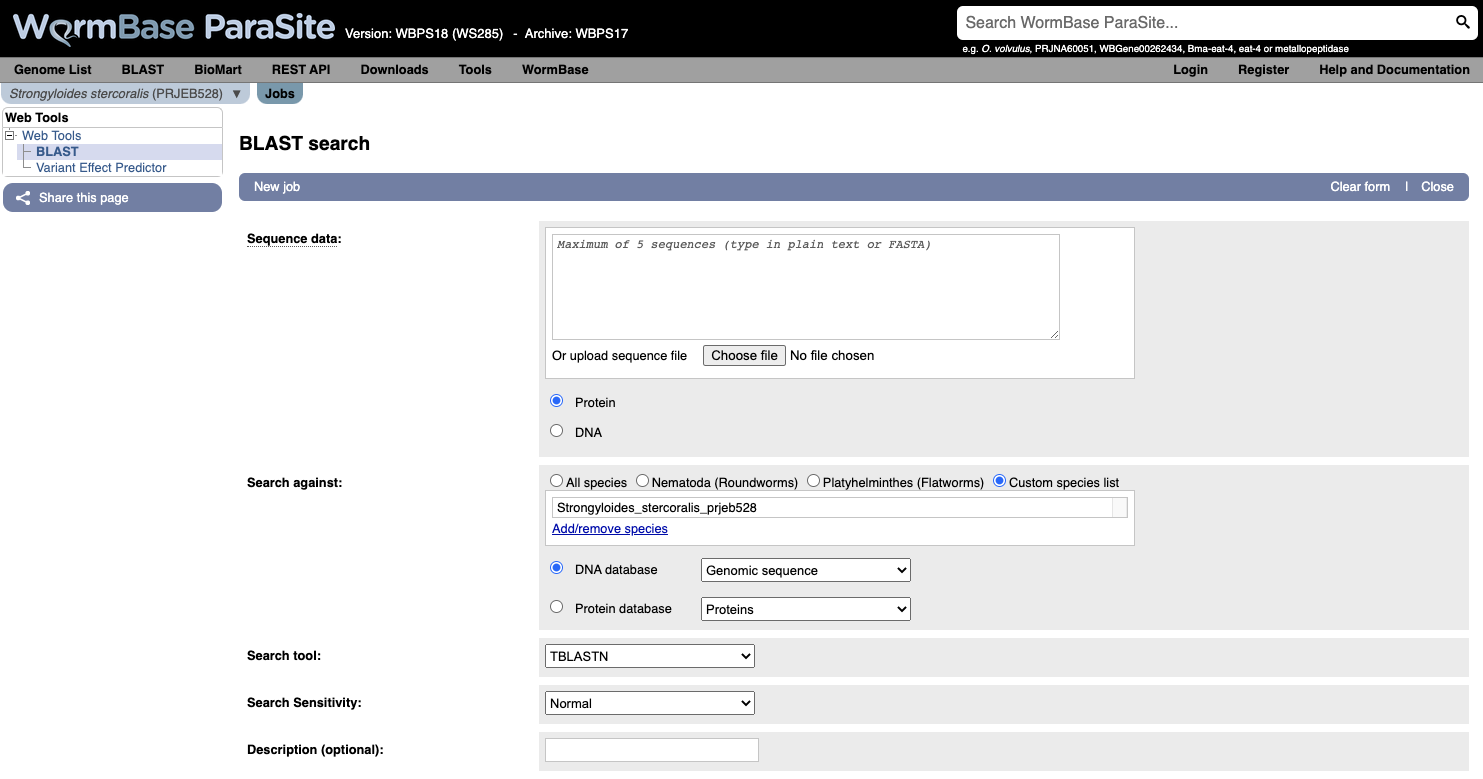
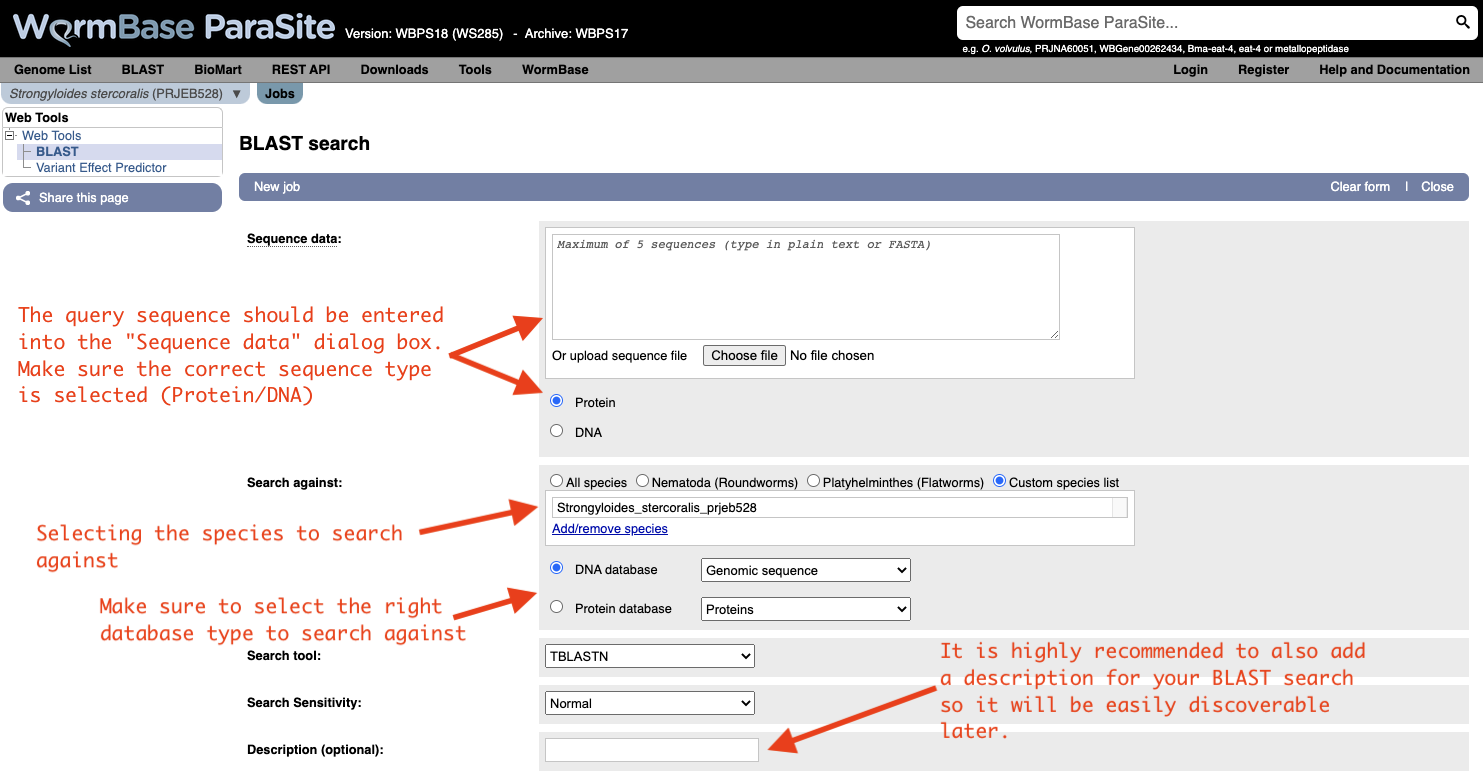
Last minute edits

diff --git a/manuals/module_3_WBP2/module_3_WBP2.md b/manuals/module_3_WBP2/module_3_WBP2.md
@@ -32,10 +32,11 @@ output:
 
 In this module, we return to WormBase ParaSite.
 
-We will start by looking at three commonly-used tools in WBPS:
+We will start by looking at commonly-used tools in WBPS:
 - BLAST
 - JBrowse (a genome browser)
 - Variant Effect Predictor (VEP)
+- Gene expression platform
 - g:Profiler
 
 We will then go on to apply some of the command line skills that you were introduced to in module 2 to explore WormBase ParaSite data programmatically.
@@ -63,19 +64,11 @@ BLAST uses three steps:
    - The extension step will continue until the overall score drops below a given value. At this point, the extension step is dropped and the alignment is recorded with its score.
    - The results are then presented as a list of alignments with associated scores. The alignments with the highest scores are most likely to be true matches or homologues of the query sequence.
 
-**Types of BLAST search**
-
-There are different flavours of the BLAST programme depending on whether the query is a nucleotide or a protein sequence and also depending on the nature (nucleotide or protein) of the database we are searching in.
-![](https://thebiologynotes.com/wp-content/uploads/2022/07/Basic-Local-Alignment-Search-Tool-BLAST.jpg) 
-- BLASTn: If the query is a nucleotide sequence and we are searching for matches in a nucleotide database, the program to use is BLASTn.
-- BLASTp: If the query is a protein sequence and we are looking for matches in a protein database, the programme to use is BLASTp. 
-- tBLASTn: If the query and the database are different, for example, if you want to query a protein sequence to find the best matches in a nucleotide database, BLAST can translate all the entries in the nucleotide database into protein sequences (each sequence can be translated into the 6 possible frames) You can then use the resulting "translated database" as the subject for the search. This flavour of BLAST is called tBLASTn.
-- BLASTx: In the reverse scenario, when a nucleotide sequence is the query and you want to search a protein database. The query is translated into the 6 possible frames and is then aligned to the query. This is called BLASTx.
 
 **When do we need to use BLAST?**
-- Discovering new genes or proteins: Imagine that you have sequenced a gene that is associated with drug resistance in a helminth. You know part of the DNA sequence, but you do not know which gene it belongs to. You can use WormBase ParaSite's BLAST to see if any genes correspond to your sequence!
-- Discovering variants of genes or proteins: Imagine you have identified a new protein of helminth which is similar but not identical to any of the  known proteins for this species. You might have found a new isoform of the encoding gene.
-- Identifying orthologs and paralogs: You can run BLAST using a protein/gene of a species to find its paralogues or its orthologues in other species.
+- **Discovering new genes or proteins**: Imagine that you have sequenced a gene that is associated with drug resistance in a helminth. You know part of the DNA sequence, but you do not know which gene it belongs to. You can use WormBase ParaSite's BLAST to see if any genes correspond to your sequence!
+- **Discovering variants of genes or proteins**: Imagine you have identified a new protein of helminth which is similar but not identical to any of the  known proteins for this species. You might have found a new isoform of the encoding gene.
+- **Identifying orthologs and paralogs**: You can run BLAST using a protein/gene of a species to find its paralogues or its orthologues in other species.
 
 **BLAST in WormBase ParaSite**
 
@@ -87,23 +80,13 @@ The BLAST tool is accessible:
 
 Both options will take you to WormBase ParaSite's BLAST tool page:
 ![](figures/BLAST_4.png)
-- The query sequence should be entered into the "Sequence data" dialog box. Make sure the correct sequence type is selected (Protein/DNA)
-- Selecting the species to search against. By selecting custom species list, a pop-up box will appear. Their you can search and select the genomes you would like to perform BLAST search against.
-- You can also use the round radio buttons if you would like to perform a search agaist all species, nematodes, platyhelmiths, or against a custom species list.
-- Make sure to select the right database type to search against (DNA/Protein database and their types)
-- The rest of the options include scoring filtering and specific alignment parameters. 
-- It is highly recommended to also add a description for your BLAST search so it will be easily discoverable later.
 
 **How to evaluate Blast results?**
    
 Metrics used in the results table:
 - **Score**: The bit score gives an indication of how good the alignment is; the higher the score, the better
-the alignment. In general terms, this score is calculated from a formula that takes into account
-the alignment of similar or identical residues, as well as any gaps introduced to align the
-sequences.
-- **E-value**: The E-value gives an indication of the statistical significance of a given pairwise alignment
-and reflects the size of the database and the scoring system used. The lower the E-value, the
-more significant the hit. A sequence alignment that has an E-value of 0.05 means that this
+the alignment.
+- **E-value**: The E-value gives an indication of the statistical significance of each alignment. A sequence alignment that has an E-value of 0.05 means that this
 similarity has a 5 in 100 (1 in 20) chance of occurring by chance alone.
 - **%ID or percent identity**: Percent identity is telling you how many residues in your query are an identical match to the hit. Closely related sequences will have a much higher % identity.
 
@@ -111,8 +94,6 @@ similarity has a 5 in 100 (1 in 20) chance of occurring by chance alone.
 
 ---
 ### BLAST exercise <a name="blast_exercise"></a>
-
-Use WormBase ParaSite BLAST to find out the identity of this sequence, and which species it belongs to. Does it have any close hits in other genomes? Try BLASTing against both cDNA and a genomic DNA databases. What kind of sequence is this?
 
 ```
 TTTGCAGATGCTTCTCCCTTCAAACTTGACGACGTCAACATTAATGACGTCATCATCAGA
@@ -141,6 +122,9 @@ AGCCCAACGAATTGCCAATGCCATATCTTTAACAACTTTTATGGTTTCTTGTTTGTTTTT
 TTTTATTTATTTTATTGTAATGTTTGATTCTCGGTGAAAAATTTGTGTAAAATAAATTAT
 TTTTTATGTGAAA
 ```
+- Use WormBase ParaSite BLAST to find out the identity of this sequence, and which species it belongs to.
+- Does it have any close hits in other genomes?
+- BONUS question: Try BLASTing against both cDNA and a genomic DNA databases. What kind of sequence is this?
 
 [↥ **Back to top**](#top)
 
@@ -149,18 +133,13 @@ TTTTTATGTGAAA
 
 A genome browser is a tool that allows you to visualise a genome assembly and its features, together with experimental data aligned to the genome.
 
-Genome browsers have many use cases:
-- You may want to visualising a gene model in its genomic context, or to assess the correctness of the model.
-- They are also used for visualising functional genomics data, such as the results of ChIP-Seq and RNA-Seq experiments.
+There are several commonly used genome browsers in bioinformatics, each with different features. In WormBase ParaSite we have two:
 
-There are several commonly used genome browsers in bioinformatics, each with different features. Examples include:
+* Ensembl - this can be used to browse a large catalog of genomes across the tree of life. WormBase ParaSite has an instance of the Ensembl browser built in, and [we explored it in Module 1](https://github.com/WCSCourses/HelminthBioinformatics_2023/blob/main/manuals/module_1_WBP1/module_1_WBP1.md#genome_browser). 
 
-* Ensembl - this can be used to browse a large catalog of genomes across the tree of life. WormBase ParaSite has an instance of the Ensembl browser built in, [the one we explored in Module 1](https://github.com/WCSCourses/HelminthBioinformatics_2023/blob/main/manuals/module_1_WBP1/module_1_WBP1.md#genome_browser). 
-* The [Integrative Genomics Viewer (IGV)](https://igv.org/) - this software can be downloaded and installed locally to work with local data without internet access (mainly used for variation data).
-* The [UCSC Genome Browser](https://genome.ucsc.edu/) - this browser hosts selected vertebrate species and some model organism (and closely related) species.
-* [Artemis/Artemis Comparison Tool (ACT)](https://www.sanger.ac.uk/tool/artemis-comparison-tool-act/) - similar to IGV, this can also run locally without the internet. It can also be used to edit (i.e. change) gene models (to correct errors). ACT is a tool for visualising synteny (regions of similarity) between sequences.
 * [JBrowse 1](https://jbrowse.org/jbrowse1.html) - this is the genome browser that we’ll be using today. WormBase ParaSite has an instance of JBrowse for every genome that it hosts. The Apollo project is a well known extension of JBrowse, which, like Artemis, can be used to edit gene models.
-  * And it's newer version: [Jbrowse 2](https://jbrowse.org/jb2/) 
+
+There are many other genome browsers for different needs out there. Feel free to explore them at your own time:n[Integrative Genomics Viewer (IGV)](https://igv.org/),[UCSC Genome Browser](https://genome.ucsc.edu/),[Artemis/Artemis Comparison Tool (ACT)](https://www.sanger.ac.uk/tool/artemis-comparison-tool-act/) and the new version of Jbrowse: [Jbrowse 2](https://jbrowse.org/jb2/) 
 
 #### Using JBrowse: basic functionality
 
@@ -222,32 +201,19 @@ Let’s say you want to see in which life stages Smp_312440 is expressed:
 - By mousing over the histogram, you can see the exact number of aligned reads at each base. 
 - We can see that a lot of the tracks show biological replicates of the same condition.- We can use combination tracks to combine replicate tracks “on the fly”, so we use up less space on the screen.
 
-**You can combine tracks together**:
-10. In the main menu at the top of the page, select “Track” and “Add combination track”. 
-    - A new empty track should appear. You can then drag and drop existing tracks in to combine them.
-
-![](figures/jbrowse_7.png)
-
-After you add few tracks by using the "addition" method, you’ll see the total number of reads across both selected libraries that aligned at each region. 
-
-![](figures/jbrowse_8.png)
-
-Note that different set operations can be performed, including subtraction, multiplication and division; these might make sense depending on the tracks that are being combined and the information that you’re interested in.
-
-As well as seeing that Smp_312440 is expressed in these conditions, we can use the coverage histograms to assess the quality of the gene model: Most parasitic worm genomes are annotated with automated pipelines. Whilst annotation algorithms can often be very accurate, they are not infallible. **Most of the gene models that you look at in WormBase ParaSite will not have been checked by a human curator, so it is wise not to take them as “truth" unless you verify that they agree with any evidence that is available.**
-
-In this case we can see that each of the exons in the gene model have got good RNASeq coverage, with no additional exons suggested by the RNASeq data.
-
 #### Visualising your own data
 
 As well as looking at publicly available data, you can use WormBase ParaSite JBrowse to visualise your own data.
 
 We’ll demonstrate how to do this using a BAM file that we have provided for you.
 
-- **BAM** File: a type of sequence file, in this case of RNA sequencing data. BAM files are binary (i.e., compressed and not human readable) versions of SAM files.
-- **SAM** File: a tab-delimited text file; each line in a SAM file represents a sequencing read, and (optionally) a description of how that read is aligned to a reference sequence.
+**BAM file?**
+A BAM file is a type of file format used in genomics to store DNA sequencing data in a compressed and indexed manner.
 
-In the module 3 data directory you should find a file named SRR3223448.bam. As a BAM file, this file is binary, so trying to read it as it is won’t be very informative. To read it we should first convert it into the SAM file format (non-binary, human-readable). We can do that with samtools:
+In the module 3 data directory you should find a file named SRR3223448.bam. 
+
+As a BAM file, this file is binary, so trying to read it as it is won’t be very informative. To read it we should first convert it into the SAM file format (non-binary, human-readable). We can do that with samtools:
+
 - [Samtools](http://www.htslib.org/doc/samtools.html) is a useful software package for manipulating SAM and BAM files.
 - We will use a samtools command to convert the BAM file to a SAM file so we can have a look at how it’s structured. Move to the module 3 data directory and type the following into your terminal:
 
@@ -256,7 +222,7 @@ samtools view -h SRR3223448.bam | less
 ```
 
 <details closed>
-<summary>Click here to read more about the SAM file format</summary>
+<summary> <- Click here to read more about the BAM and SAM file formats at your own time.</summary>
 The SAM file starts with a header section. All header lines begin with a ‘@’ character.
 
 ![](figures/jbrowse_10.png)
@@ -449,6 +415,8 @@ less necator_americanus.PRJNA72135.WBPS18.annotations.gff3
 
 Using the commands that you learned yesterday, we can manipulate these files to extract all sorts of information. Break down the following commands to understand what each section is doing:
 
+You can see that we'll be using the ```awk``` command a lot. The ```awk``` command is a powerful text processing tool commonly used in Unix and Linux environments. It allows you to manipulate and analyze structured data, such as text files or output from other commands, based on patterns and actions defined by you.
+
 To extract the names all of the gene features on scaffold "KI657457":
 
 ```bash
@@ -541,7 +509,10 @@ We offer examples on how to use these in several different programming languages
 curl -sL 'https://parasite.wormbase.org/rest/info/genomes/taxonomy/Meloidogyne?' -H 'Content-type:application/json'
 ```
 
-Note: we’ve also added the L (full name: --location) flag to the curl command, and changed “rest-15” to “rest” in the URL. “rest-18” refers to the 15th release of WormBase ParaSite; by removing the version number the request is automatically redirected to the most recent release. The L flag tells curl to allow this redirection.
+Note: 
+* we’ve also added the L (full name: --location) flag to the curl command, and changed “rest-18” to “rest” in the URL. “rest-18” refers to the 18th release of WormBase ParaSite; by removing the version number the request is automatically redirected to the most recent release.
+The L flag tells curl to allow this redirection.
+* The -s option is used silence or suppress the progress meter and error messages during the request.
 
 You will see a lot of text! This is the data that we requested, in JSON format.
 
@@ -705,7 +676,13 @@ Feel free to expand or tweak your programs if you have time!
 ---
 ## The WormBase ParaSite Expression browser <a name="expression_data"></a>
 
-Earlier in this section, we looked at a gene in JBrowse and used RNAseq tracks to see in which life stages it was expressed. What if you were interested in transcriptional differences between life stages, but didn't have a specific gene in mind? You might want to retrieve **all** of the _S. mansoni_ genes that are differentially expressed between 2 life cycle stages. WormBase ParaSite has collated RNAseq data from publicly available studies and analysed it against our genomes and annotations. This means that if somebody has already conducted a study to compare the conditions that you're interested in, you can look up pre-calculated differentially expressed genes. 
+Earlier in this section, we looked at a gene in JBrowse and used RNAseq tracks to see in which life stages it was expressed. What if you were interested in transcriptional differences between life stages, but didn't have a specific gene in mind?
+
+You might want to retrieve **all** of the _S. mansoni_ genes that are differentially expressed between 2 life cycle stages. 
+
+WormBase ParaSite has collated RNAseq data from publicly available studies and analysed it against our genomes and annotations.
+
+This means that if somebody has already conducted a study to compare the conditions that you're interested in, you can look up pre-calculated differentially expressed genes. 
 
 1. Navigate back to the _S. mansoni_ genome landing page, and select "Gene expression"
 
